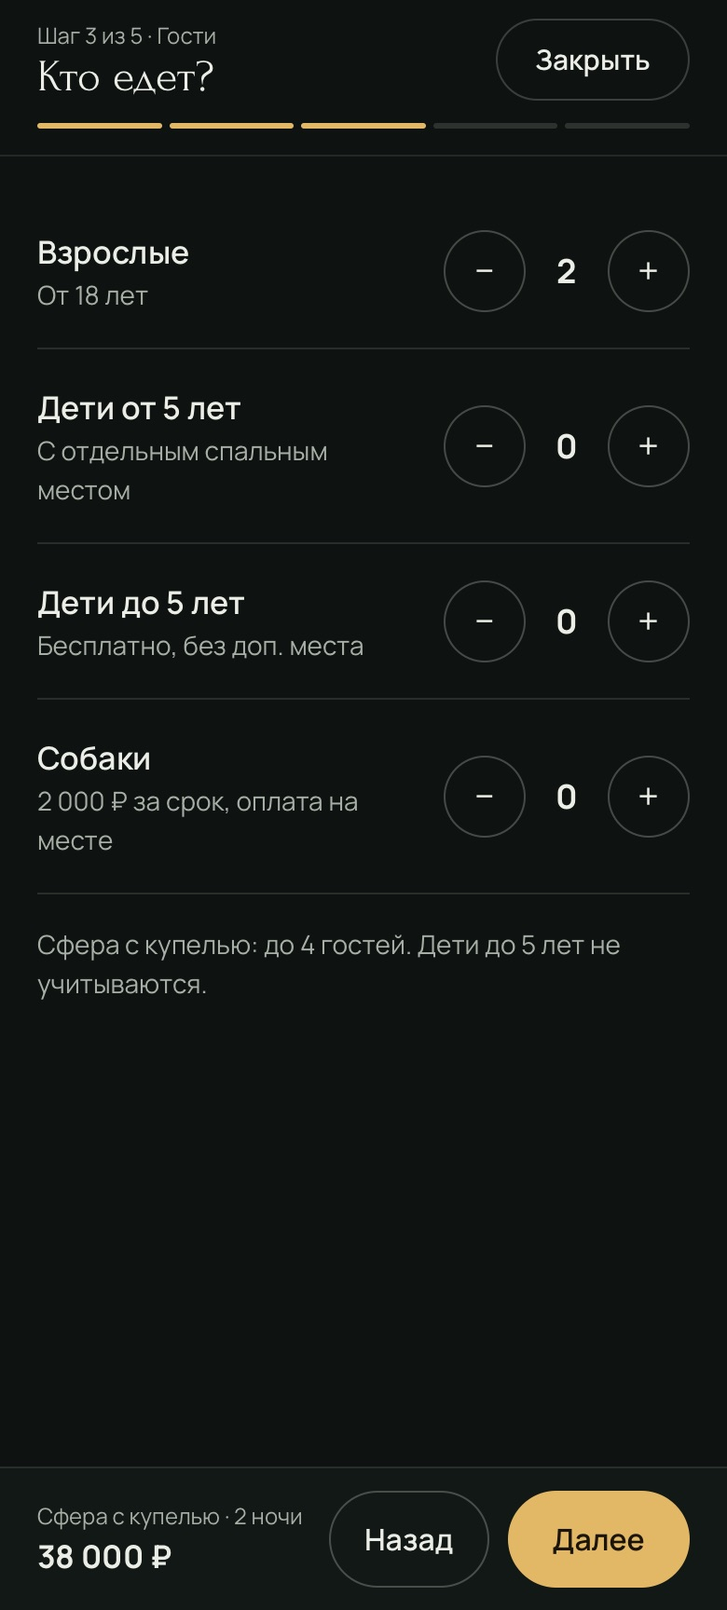
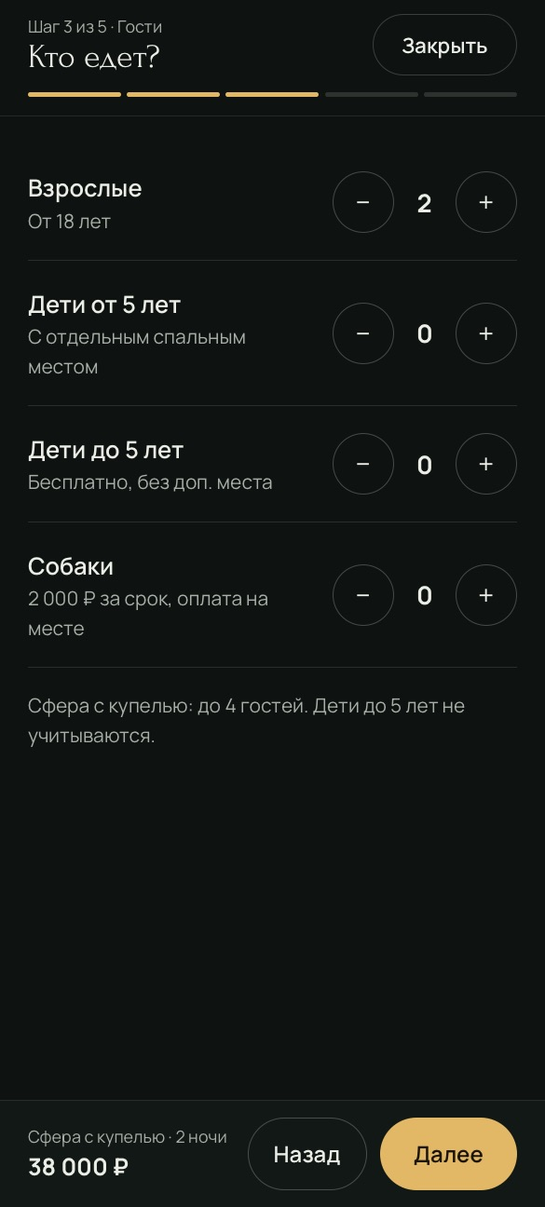
Память на телефоне: лёгкие версии картинок через srcset, обрезка снимков старого сайта, content-visibility для слайдов
- экраны прототипа в трёх размерах (640 / 1280 / 1920), телефонные в двух (390 / 585)
- снимки старого сайта обрезаны до видимой области рамки (вместо 1440×12128 — 1200×1000)
- слайды вне экрана не рендерятся и не держат память
- трафик презентации на телефоне: 2,4 МБ вместо 9,8 МБ

diff --git a/index.html b/index.html
@@ -12,7 +12,7 @@
 <link rel="preconnect" href="https://fonts.googleapis.com">
 <link rel="preconnect" href="https://fonts.gstatic.com" crossorigin>
 <link rel="stylesheet" href="https://fonts.googleapis.com/css2?family=Forum&family=Manrope:wght@400;500;600;700&display=swap">
-<link rel="stylesheet" href="assets/css/deck.css?v=10">
+<link rel="stylesheet" href="assets/css/deck.css?v=11">
 </head>
 <body>
 
@@ -22,7 +22,7 @@
 
     <!-- 1 -->
     <section class="slide slide--cover" data-label="Обложка" data-notes="Редизайн сайта бронирования. Сравниваем текущий сайт и новый прототип, затем — преимущества и открытые вопросы.">
-      <img src="assets/img/hero.jpg" alt="" class="cover__img">
+      <img src="assets/img/hero-s.jpg" srcset="assets/img/hero-s.jpg 900w, assets/img/hero.jpg 1680w" sizes="100vw" alt="" class="cover__img">
       <div class="cover__shade"></div>
       <div class="cover__in">
         <div class="eyebrow-xl eyebrow-xl--acc">Mystic Hills · ноябрь 2026</div>
@@ -39,7 +39,7 @@
       <div class="col col--40">
         <div class="eyebrow-xl">Текущий сайт</div>
         <h2 class="t2 t2--lg">Что мешает гостю дойти до оплаты</h2>
-        <div class="frame frame--fixed"><img src="assets/img/old/old-prozhivanie.jpg" alt="Текущий каталог" class="shot" style="height:100%;object-position:0 6%"></div>
+        <div class="frame frame--fixed"><img src="assets/img/old/crop-0-s.jpg" srcset="assets/img/old/crop-0-s.jpg 600w, assets/img/old/crop-0.jpg 1200w" sizes="(max-width:1023px) 45vw, 620px" alt="Текущий каталог" class="shot" style="height:100%" loading="lazy" decoding="async"></div>
       </div>
       <ol class="nlist nlist--top">
         <li><span class="num">01</span><span>Бронирование вынесено на отдельную страницу с пустым виджетом Bnovo</span></li>
@@ -56,13 +56,13 @@
       <div class="two">
         <div class="col">
           <span class="pill pill--was">Было</span>
-          <div class="frame"><div class="frame__bar"><i></i><i></i><i></i></div><img src="assets/img/old/old-index.jpg" alt="Текущая главная" class="shot"></div>
+          <div class="frame"><div class="frame__bar"><i></i><i></i><i></i></div><img src="assets/img/old/crop-1-s.jpg" srcset="assets/img/old/crop-1-s.jpg 600w, assets/img/old/crop-1.jpg 1200w" sizes="(max-width:1023px) 45vw, 620px" alt="Текущая главная" class="shot" loading="lazy" decoding="async"></div>
         </div>
         <div class="col">
           <span class="pill pill--now">Стало</span>
           <div class="rel">
-            <div class="frame"><div class="frame__bar"><i></i><i></i><i></i></div><img class="shot-live web" src="assets/img/screens/home-w.jpg" alt="Новая главная" data-frame="demo.html" loading="lazy"></div>
-            <div class="phone phone--float"><img class="shot-live" src="assets/img/screens/home-p.jpg" alt="Новая главная, телефон" data-frame="demo.html" loading="lazy"></div>
+            <div class="frame"><div class="frame__bar"><i></i><i></i><i></i></div><img class="shot-live web" src="assets/img/screens/home-w-s.jpg" srcset="assets/img/screens/home-w-xs.jpg 640w, assets/img/screens/home-w-s.jpg 1280w, assets/img/screens/home-w.jpg 1920w" sizes="(max-width:1023px) 45vw, 620px" alt="Новая главная" data-frame="demo.html" loading="lazy" decoding="async"></div>
+            <div class="phone phone--float"><img class="shot-live" src="assets/img/screens/home-p-s.jpg" srcset="assets/img/screens/home-p-s.jpg 390w, assets/img/screens/home-p.jpg 585w" sizes="(max-width:1023px) 20vw, 330px" alt="Новая главная, телефон" data-frame="demo.html" loading="lazy" decoding="async"></div>
           </div>
         </div>
       </div>
@@ -74,12 +74,12 @@
       <div class="two">
         <div class="col">
           <span class="pill pill--was">Было</span>
-          <div class="frame frame--560"><img src="assets/img/old/old-index.jpg" alt="Текущий поиск" class="shot" style="height:100%;object-position:0 10%"></div>
+          <div class="frame frame--560"><img src="assets/img/old/crop-2-s.jpg" srcset="assets/img/old/crop-2-s.jpg 600w, assets/img/old/crop-2.jpg 1200w" sizes="(max-width:1023px) 45vw, 620px" alt="Текущий поиск" class="shot" style="height:100%" loading="lazy" decoding="async"></div>
           <p class="note">Четыре поля и кнопка «Показать наличие». Даты по умолчанию — ближайшая ночь, гостей — один.</p>
         </div>
         <div class="col">
           <span class="pill pill--now">Стало</span>
-          <div class="frame frame--560"><img class="shot-live web web--900" src="assets/img/screens/home-w900.jpg" alt="Новый поиск" data-frame="demo.html" loading="lazy"></div>
+          <div class="frame frame--560"><img class="shot-live web web--900" src="assets/img/screens/home-w900-s.jpg" srcset="assets/img/screens/home-w900-xs.jpg 640w, assets/img/screens/home-w900-s.jpg 1280w, assets/img/screens/home-w900.jpg 1920w" sizes="(max-width:1023px) 45vw, 620px" alt="Новый поиск" data-frame="demo.html" loading="lazy" decoding="async"></div>
           <p class="note">Панель запоминает выбор: после дат карточки домиков показывают цену за весь период и занятость.</p>
         </div>
       </div>
@@ -91,13 +91,13 @@
       <div class="two">
         <div class="col">
           <span class="pill pill--was">Было</span>
-          <div class="frame"><div class="frame__bar"><i></i><i></i><i></i></div><img src="assets/img/old/old-prozhivanie.jpg" alt="Текущий каталог" class="shot" style="object-position:0 4%"></div>
+          <div class="frame"><div class="frame__bar"><i></i><i></i><i></i></div><img src="assets/img/old/crop-3-s.jpg" srcset="assets/img/old/crop-3-s.jpg 600w, assets/img/old/crop-3.jpg 1200w" sizes="(max-width:1023px) 45vw, 620px" alt="Текущий каталог" class="shot" loading="lazy" decoding="async"></div>
         </div>
         <div class="col">
           <span class="pill pill--now">Стало</span>
           <div class="rel">
-            <div class="frame"><div class="frame__bar"><i></i><i></i><i></i></div><img class="shot-live web" src="assets/img/screens/scroll-houses-w.jpg" alt="Новый каталог" data-frame="demo.html?scroll=houses" loading="lazy"></div>
-            <div class="phone phone--float"><img class="shot-live" src="assets/img/screens/scroll-houses-p.jpg" alt="Новый каталог, телефон" data-frame="demo.html?scroll=houses" loading="lazy"></div>
+            <div class="frame"><div class="frame__bar"><i></i><i></i><i></i></div><img class="shot-live web" src="assets/img/screens/scroll-houses-w-s.jpg" srcset="assets/img/screens/scroll-houses-w-xs.jpg 640w, assets/img/screens/scroll-houses-w-s.jpg 1280w, assets/img/screens/scroll-houses-w.jpg 1920w" sizes="(max-width:1023px) 45vw, 620px" alt="Новый каталог" data-frame="demo.html?scroll=houses" loading="lazy" decoding="async"></div>
+            <div class="phone phone--float"><img class="shot-live" src="assets/img/screens/scroll-houses-p-s.jpg" srcset="assets/img/screens/scroll-houses-p-s.jpg 390w, assets/img/screens/scroll-houses-p.jpg 585w" sizes="(max-width:1023px) 20vw, 330px" alt="Новый каталог, телефон" data-frame="demo.html?scroll=houses" loading="lazy" decoding="async"></div>
           </div>
         </div>
       </div>
@@ -118,8 +118,8 @@
           <li>Для двоих / романтика</li>
         </ul>
       </div>
-      <div class="phone-wrap phone-wrap--pt"><div class="phone"><img class="shot-live" src="assets/img/screens/scroll-houses-p.jpg" alt="Быстрые фильтры" data-frame="demo.html?scroll=houses" loading="lazy"></div></div>
-      <div class="phone-wrap phone-wrap--pt"><div class="phone"><img class="shot-live" src="assets/img/screens/view-filters-p.jpg" alt="Панель фильтров" data-frame="demo.html?view=filters" loading="lazy"></div></div>
+      <div class="phone-wrap phone-wrap--pt"><div class="phone"><img class="shot-live" src="assets/img/screens/scroll-houses-p-s.jpg" srcset="assets/img/screens/scroll-houses-p-s.jpg 390w, assets/img/screens/scroll-houses-p.jpg 585w" sizes="(max-width:1023px) 20vw, 330px" alt="Быстрые фильтры" data-frame="demo.html?scroll=houses" loading="lazy" decoding="async"></div></div>
+      <div class="phone-wrap phone-wrap--pt"><div class="phone"><img class="shot-live" src="assets/img/screens/view-filters-p-s.jpg" srcset="assets/img/screens/view-filters-p-s.jpg 390w, assets/img/screens/view-filters-p.jpg 585w" sizes="(max-width:1023px) 20vw, 330px" alt="Панель фильтров" data-frame="demo.html?view=filters" loading="lazy" decoding="async"></div></div>
     </section>
 
     <!-- 7 -->
@@ -128,15 +128,15 @@
       <div class="grid-1-2p">
         <div class="col">
           <span class="pill pill--was">Было</span>
-          <div class="frame"><img src="assets/img/old/old-sfera.jpg" alt="Текущая страница Сферы" class="shot" style="height:100%"></div>
+          <div class="frame"><img src="assets/img/old/crop-4-s.jpg" srcset="assets/img/old/crop-4-s.jpg 600w, assets/img/old/crop-4.jpg 1200w" sizes="(max-width:1023px) 45vw, 620px" alt="Текущая страница Сферы" class="shot" style="height:100%" loading="lazy" decoding="async"></div>
         </div>
         <div class="col">
           <span class="pill pill--now">Стало</span>
-          <div class="phone-wrap"><div class="phone"><img class="shot-live" src="assets/img/screens/view-house-house-sfera-p.jpg" alt="Сфера" data-frame="demo.html?view=house&amp;house=sfera" loading="lazy"></div></div>
+          <div class="phone-wrap"><div class="phone"><img class="shot-live" src="assets/img/screens/view-house-house-sfera-p-s.jpg" srcset="assets/img/screens/view-house-house-sfera-p-s.jpg 390w, assets/img/screens/view-house-house-sfera-p.jpg 585w" sizes="(max-width:1023px) 20vw, 330px" alt="Сфера" data-frame="demo.html?view=house&amp;house=sfera" loading="lazy" decoding="async"></div></div>
         </div>
         <div class="col">
           <span class="pill pill--ghost"></span>
-          <div class="phone-wrap"><div class="phone"><img class="shot-live" src="assets/img/screens/view-house-house-lodzh-dates-1-p.jpg" alt="Лодж с датами" data-frame="demo.html?view=house&amp;house=lodzh&amp;dates=1" loading="lazy"></div></div>
+          <div class="phone-wrap"><div class="phone"><img class="shot-live" src="assets/img/screens/view-house-house-lodzh-dates-1-p-s.jpg" srcset="assets/img/screens/view-house-house-lodzh-dates-1-p-s.jpg 390w, assets/img/screens/view-house-house-lodzh-dates-1-p.jpg 585w" sizes="(max-width:1023px) 20vw, 330px" alt="Лодж с датами" data-frame="demo.html?view=house&amp;house=lodzh&amp;dates=1" loading="lazy" decoding="async"></div></div>
         </div>
       </div>
     </section>
@@ -154,15 +154,15 @@
           <li>Данные о занятости — из Bnovo после интеграции</li>
         </ul>
       </div>
-      <div class="phone-wrap phone-wrap--pt"><div class="phone"><img class="shot-live" src="assets/img/screens/view-booking-step-0-house-sfera-kupel-p.jpg" alt="Шаг 1 — даты" data-frame="demo.html?view=booking&amp;step=0&amp;house=sfera-kupel" loading="lazy"></div></div>
-      <div class="phone-wrap phone-wrap--pt"><div class="phone"><img class="shot-live" src="assets/img/screens/view-booking-step-1-dates-1-p.jpg" alt="Шаг 2 — домик" data-frame="demo.html?view=booking&amp;step=1&amp;dates=1" loading="lazy"></div></div>
+      <div class="phone-wrap phone-wrap--pt"><div class="phone"><img class="shot-live" src="assets/img/screens/view-booking-step-0-house-sfera-kupel-p-s.jpg" srcset="assets/img/screens/view-booking-step-0-house-sfera-kupel-p-s.jpg 390w, assets/img/screens/view-booking-step-0-house-sfera-kupel-p.jpg 585w" sizes="(max-width:1023px) 20vw, 330px" alt="Шаг 1 — даты" data-frame="demo.html?view=booking&amp;step=0&amp;house=sfera-kupel" loading="lazy" decoding="async"></div></div>
+      <div class="phone-wrap phone-wrap--pt"><div class="phone"><img class="shot-live" src="assets/img/screens/view-booking-step-1-dates-1-p-s.jpg" srcset="assets/img/screens/view-booking-step-1-dates-1-p-s.jpg 390w, assets/img/screens/view-booking-step-1-dates-1-p.jpg 585w" sizes="(max-width:1023px) 20vw, 330px" alt="Шаг 2 — домик" data-frame="demo.html?view=booking&amp;step=1&amp;dates=1" loading="lazy" decoding="async"></div></div>
     </section>
 
     <!-- 9 -->
     <section class="slide slide--pad slide--grid1-640" data-label="Бронирование: было" data-notes="Сейчас страница бронирования — заголовок, текст о тарифе и пустой виджет. Выбор домика, гостей и оплата происходят уже на стороне Bnovo.">
       <div class="col">
         <span class="pill pill--was">Было</span>
-        <div class="frame frame--800"><div class="frame__bar"><i></i><i></i><i></i></div><img src="assets/img/old/old-booking.jpg" alt="Текущая страница бронирования" class="shot shot--764"></div>
+        <div class="frame frame--800"><div class="frame__bar"><i></i><i></i><i></i></div><img src="assets/img/old/crop-5-s.jpg" srcset="assets/img/old/crop-5-s.jpg 600w, assets/img/old/crop-5.jpg 1200w" sizes="(max-width:1023px) 45vw, 620px" alt="Текущая страница бронирования" class="shot shot--764" loading="lazy" decoding="async"></div>
       </div>
       <div class="col col--36" style="padding-top:58px">
         <h2 class="t2">Бронирование: как сейчас</h2>
@@ -182,10 +182,10 @@
         <p class="lead lead--620">Даты · Домик · Гости · Дополнения · Оплата. Итоговая сумма пересчитывается на каждом шаге</p>
       </div>
       <div class="phones4">
-        <div class="col col--16"><div class="cap">Шаг 3 · Гости</div><div class="phone-wrap"><div class="phone"><img class="shot-live" src="assets/img/screens/view-booking-step-2-house-sfera-kupel-dates-1-p.jpg" alt="Шаг 3 — гости" data-frame="demo.html?view=booking&amp;step=2&amp;house=sfera-kupel&amp;dates=1" loading="lazy"></div></div></div>
-        <div class="col col--16"><div class="cap">Шаг 4 · Дополнения</div><div class="phone-wrap"><div class="phone"><img class="shot-live" src="assets/img/screens/view-booking-step-3-house-sfera-kupel-dates-1-extras-1-p.jpg" alt="Шаг 4 — дополнения" data-frame="demo.html?view=booking&amp;step=3&amp;house=sfera-kupel&amp;dates=1&amp;extras=1" loading="lazy"></div></div></div>
-        <div class="col col--16"><div class="cap">Шаг 5 · Оплата</div><div class="phone-wrap"><div class="phone"><img class="shot-live" src="assets/img/screens/view-booking-step-4-house-sfera-kupel-dates-1-extras-1-name-1-p.jpg" alt="Шаг 5 — оплата" data-frame="demo.html?view=booking&amp;step=4&amp;house=sfera-kupel&amp;dates=1&amp;extras=1&amp;name=1" loading="lazy"></div></div></div>
-        <div class="col col--16"><div class="cap">Подтверждение</div><div class="phone-wrap"><div class="phone"><img class="shot-live" src="assets/img/screens/view-booking-step-5-house-sfera-kupel-dates-1-extras-1-name-1-no-1-p.jpg" alt="Подтверждение" data-frame="demo.html?view=booking&amp;step=5&amp;house=sfera-kupel&amp;dates=1&amp;extras=1&amp;name=1&amp;no=1" loading="lazy"></div></div></div>
+        <div class="col col--16"><div class="cap">Шаг 3 · Гости</div><div class="phone-wrap"><div class="phone"><img class="shot-live" src="assets/img/screens/view-booking-step-2-house-sfera-kupel-dates-1-p-s.jpg" srcset="assets/img/screens/view-booking-step-2-house-sfera-kupel-dates-1-p-s.jpg 390w, assets/img/screens/view-booking-step-2-house-sfera-kupel-dates-1-p.jpg 585w" sizes="(max-width:1023px) 20vw, 330px" alt="Шаг 3 — гости" data-frame="demo.html?view=booking&amp;step=2&amp;house=sfera-kupel&amp;dates=1" loading="lazy" decoding="async"></div></div></div>
+        <div class="col col--16"><div class="cap">Шаг 4 · Дополнения</div><div class="phone-wrap"><div class="phone"><img class="shot-live" src="assets/img/screens/view-booking-step-3-house-sfera-kupel-dates-1-extras-1-p-s.jpg" srcset="assets/img/screens/view-booking-step-3-house-sfera-kupel-dates-1-extras-1-p-s.jpg 390w, assets/img/screens/view-booking-step-3-house-sfera-kupel-dates-1-extras-1-p.jpg 585w" sizes="(max-width:1023px) 20vw, 330px" alt="Шаг 4 — дополнения" data-frame="demo.html?view=booking&amp;step=3&amp;house=sfera-kupel&amp;dates=1&amp;extras=1" loading="lazy" decoding="async"></div></div></div>
+        <div class="col col--16"><div class="cap">Шаг 5 · Оплата</div><div class="phone-wrap"><div class="phone"><img class="shot-live" src="assets/img/screens/view-booking-step-4-house-sfera-kupel-dates-1-extras-1-name-1-p-s.jpg" srcset="assets/img/screens/view-booking-step-4-house-sfera-kupel-dates-1-extras-1-name-1-p-s.jpg 390w, assets/img/screens/view-booking-step-4-house-sfera-kupel-dates-1-extras-1-name-1-p.jpg 585w" sizes="(max-width:1023px) 20vw, 330px" alt="Шаг 5 — оплата" data-frame="demo.html?view=booking&amp;step=4&amp;house=sfera-kupel&amp;dates=1&amp;extras=1&amp;name=1" loading="lazy" decoding="async"></div></div></div>
+        <div class="col col--16"><div class="cap">Подтверждение</div><div class="phone-wrap"><div class="phone"><img class="shot-live" src="assets/img/screens/view-booking-step-5-house-sfera-kupel-dates-1-extras-1-name-1-no-1-p-s.jpg" srcset="assets/img/screens/view-booking-step-5-house-sfera-kupel-dates-1-extras-1-name-1-no-1-p-s.jpg 390w, assets/img/screens/view-booking-step-5-house-sfera-kupel-dates-1-extras-1-name-1-no-1-p.jpg 585w" sizes="(max-width:1023px) 20vw, 330px" alt="Подтверждение" data-frame="demo.html?view=booking&amp;step=5&amp;house=sfera-kupel&amp;dates=1&amp;extras=1&amp;name=1&amp;no=1" loading="lazy" decoding="async"></div></div></div>
       </div>
     </section>
 
@@ -205,15 +205,15 @@
         </div>
         <p class="note">Цены — с текущего сайта, уточняются перед запуском.</p>
       </div>
-      <div class="phone-wrap phone-wrap--pt"><div class="phone"><img class="shot-live" src="assets/img/screens/view-booking-step-3-house-lodzh-dates-1-extras-1-p.jpg" alt="Дополнения" data-frame="demo.html?view=booking&amp;step=3&amp;house=lodzh&amp;dates=1&amp;extras=1" loading="lazy"></div></div>
+      <div class="phone-wrap phone-wrap--pt"><div class="phone"><img class="shot-live" src="assets/img/screens/view-booking-step-3-house-lodzh-dates-1-extras-1-p-s.jpg" srcset="assets/img/screens/view-booking-step-3-house-lodzh-dates-1-extras-1-p-s.jpg 390w, assets/img/screens/view-booking-step-3-house-lodzh-dates-1-extras-1-p.jpg 585w" sizes="(max-width:1023px) 20vw, 330px" alt="Дополнения" data-frame="demo.html?view=booking&amp;step=3&amp;house=lodzh&amp;dates=1&amp;extras=1" loading="lazy" decoding="async"></div></div>
     </section>
 
     <!-- 12 -->
     <section class="slide slide--pad" data-label="Баня" data-notes="Баня на старом сайте — страница правил без фото и цены. Теперь это раздел главной: фото, время, стоимость и кнопка в бронь.">
       <div class="head"><h2 class="t2">Баня на озере</h2><p class="lead">Фото, часы работы и цена на одном экране; правила — отдельной ссылкой</p></div>
       <div class="two">
-        <div class="col"><span class="pill pill--was">Было</span><div class="frame"><div class="frame__bar"><i></i><i></i><i></i></div><img src="assets/img/old/old-banya.jpg" alt="Текущая страница бани" class="shot"></div></div>
-        <div class="col"><span class="pill pill--now">Стало</span><div class="frame"><div class="frame__bar"><i></i><i></i><i></i></div><img class="shot-live web" src="assets/img/screens/scroll-banya-w.jpg" alt="Баня" data-frame="demo.html?scroll=banya" loading="lazy"></div></div>
+        <div class="col"><span class="pill pill--was">Было</span><div class="frame"><div class="frame__bar"><i></i><i></i><i></i></div><img src="assets/img/old/crop-6-s.jpg" srcset="assets/img/old/crop-6-s.jpg 600w, assets/img/old/crop-6.jpg 1200w" sizes="(max-width:1023px) 45vw, 620px" alt="Текущая страница бани" class="shot" loading="lazy" decoding="async"></div></div>
+        <div class="col"><span class="pill pill--now">Стало</span><div class="frame"><div class="frame__bar"><i></i><i></i><i></i></div><img class="shot-live web" src="assets/img/screens/scroll-banya-w-s.jpg" srcset="assets/img/screens/scroll-banya-w-xs.jpg 640w, assets/img/screens/scroll-banya-w-s.jpg 1280w, assets/img/screens/scroll-banya-w.jpg 1920w" sizes="(max-width:1023px) 45vw, 620px" alt="Баня" data-frame="demo.html?scroll=banya" loading="lazy" decoding="async"></div></div>
       </div>
     </section>
 
@@ -221,12 +221,12 @@
     <section class="slide slide--pad" data-label="Ресторан" data-notes="Ресторан: вместо длинной страницы с галереей — компактный блок с режимом, завтраками, доставкой в домик и ссылкой на меню.">
       <div class="head"><h2 class="t2">Ресторан</h2><p class="lead">Режим работы, завтраки и доставка в домик — цифрами, а не абзацами</p></div>
       <div class="two">
-        <div class="col"><span class="pill pill--was">Было</span><div class="frame"><div class="frame__bar"><i></i><i></i><i></i></div><img src="assets/img/old/old-cafe.jpg" alt="Текущая страница ресторана" class="shot" style="object-position:0 12%"></div></div>
+        <div class="col"><span class="pill pill--was">Было</span><div class="frame"><div class="frame__bar"><i></i><i></i><i></i></div><img src="assets/img/old/crop-7-s.jpg" srcset="assets/img/old/crop-7-s.jpg 600w, assets/img/old/crop-7.jpg 1200w" sizes="(max-width:1023px) 45vw, 620px" alt="Текущая страница ресторана" class="shot" loading="lazy" decoding="async"></div></div>
         <div class="col">
           <span class="pill pill--now">Стало</span>
           <div class="rel">
-            <div class="frame"><div class="frame__bar"><i></i><i></i><i></i></div><img class="shot-live web" src="assets/img/screens/scroll-cafe-w.jpg" alt="Ресторан" data-frame="demo.html?scroll=cafe" loading="lazy"></div>
-            <div class="phone phone--float"><img class="shot-live" src="assets/img/screens/scroll-cafe-p.jpg" alt="Ресторан, телефон" data-frame="demo.html?scroll=cafe" loading="lazy"></div>
+            <div class="frame"><div class="frame__bar"><i></i><i></i><i></i></div><img class="shot-live web" src="assets/img/screens/scroll-cafe-w-s.jpg" srcset="assets/img/screens/scroll-cafe-w-xs.jpg 640w, assets/img/screens/scroll-cafe-w-s.jpg 1280w, assets/img/screens/scroll-cafe-w.jpg 1920w" sizes="(max-width:1023px) 45vw, 620px" alt="Ресторан" data-frame="demo.html?scroll=cafe" loading="lazy" decoding="async"></div>
+            <div class="phone phone--float"><img class="shot-live" src="assets/img/screens/scroll-cafe-p-s.jpg" srcset="assets/img/screens/scroll-cafe-p-s.jpg 390w, assets/img/screens/scroll-cafe-p.jpg 585w" sizes="(max-width:1023px) 20vw, 330px" alt="Ресторан, телефон" data-frame="demo.html?scroll=cafe" loading="lazy" decoding="async"></div>
           </div>
         </div>
       </div>
@@ -236,8 +236,8 @@
     <section class="slide slide--pad" data-label="Контакты" data-notes="Блок «Как добраться» на старом сайте повторяется на каждой странице вместе с реквизитами. Теперь — один раздел с маршрутом, телефонами и мессенджерами.">
       <div class="head"><h2 class="t2">Контакты и как добраться</h2><p class="lead">Маршрут, телефоны и мессенджеры в одном блоке; реквизиты — в подвале</p></div>
       <div class="two">
-        <div class="col"><span class="pill pill--was">Было</span><div class="frame"><div class="frame__bar"><i></i><i></i><i></i></div><img src="assets/img/old/old-index.jpg" alt="Текущий блок контактов" class="shot" style="object-position:0 62%"></div></div>
-        <div class="col"><span class="pill pill--now">Стало</span><div class="frame"><div class="frame__bar"><i></i><i></i><i></i></div><img class="shot-live web" src="assets/img/screens/scroll-contacts-w.jpg" alt="Контакты" data-frame="demo.html?scroll=contacts" loading="lazy"></div></div>
+        <div class="col"><span class="pill pill--was">Было</span><div class="frame"><div class="frame__bar"><i></i><i></i><i></i></div><img src="assets/img/old/crop-8-s.jpg" srcset="assets/img/old/crop-8-s.jpg 600w, assets/img/old/crop-8.jpg 1200w" sizes="(max-width:1023px) 45vw, 620px" alt="Текущий блок контактов" class="shot" loading="lazy" decoding="async"></div></div>
+        <div class="col"><span class="pill pill--now">Стало</span><div class="frame"><div class="frame__bar"><i></i><i></i><i></i></div><img class="shot-live web" src="assets/img/screens/scroll-contacts-w-s.jpg" srcset="assets/img/screens/scroll-contacts-w-xs.jpg 640w, assets/img/screens/scroll-contacts-w-s.jpg 1280w, assets/img/screens/scroll-contacts-w.jpg 1920w" sizes="(max-width:1023px) 45vw, 620px" alt="Контакты" data-frame="demo.html?scroll=contacts" loading="lazy" decoding="async"></div></div>
       </div>
     </section>
 
@@ -245,10 +245,10 @@
     <section class="slide slide--pad" data-label="Мобильная версия" data-notes="Весь путь гостя проходится на телефоне: главная, каталог, домик, оплата. Кнопки не меньше 44 пикселей, итог брони всегда внизу экрана.">
       <div class="head"><h2 class="t2">Мобильная версия как основа</h2><p class="lead lead--700">Весь путь от главной до оплаты проходится одной рукой</p></div>
       <div class="phones4">
-        <div class="col col--16"><div class="cap">Главная</div><div class="phone-wrap"><div class="phone"><img class="shot-live" src="assets/img/screens/home-p.jpg" alt="Главная" data-frame="demo.html" loading="lazy"></div></div></div>
-        <div class="col col--16"><div class="cap">Меню</div><div class="phone-wrap"><div class="phone"><img class="shot-live" src="assets/img/screens/view-menu-p.jpg" alt="Меню" data-frame="demo.html?view=menu" loading="lazy"></div></div></div>
-        <div class="col col--16"><div class="cap">Домик</div><div class="phone-wrap"><div class="phone"><img class="shot-live" src="assets/img/screens/view-house-house-dzen-dates-1-p.jpg" alt="Домик" data-frame="demo.html?view=house&amp;house=dzen&amp;dates=1" loading="lazy"></div></div></div>
-        <div class="col col--16"><div class="cap">Оплата</div><div class="phone-wrap"><div class="phone"><img class="shot-live" src="assets/img/screens/view-booking-step-4-house-dzen-dates-1-name-1-p.jpg" alt="Оплата" data-frame="demo.html?view=booking&amp;step=4&amp;house=dzen&amp;dates=1&amp;name=1" loading="lazy"></div></div></div>
+        <div class="col col--16"><div class="cap">Главная</div><div class="phone-wrap"><div class="phone"><img class="shot-live" src="assets/img/screens/home-p-s.jpg" srcset="assets/img/screens/home-p-s.jpg 390w, assets/img/screens/home-p.jpg 585w" sizes="(max-width:1023px) 20vw, 330px" alt="Главная" data-frame="demo.html" loading="lazy" decoding="async"></div></div></div>
+        <div class="col col--16"><div class="cap">Меню</div><div class="phone-wrap"><div class="phone"><img class="shot-live" src="assets/img/screens/view-menu-p-s.jpg" srcset="assets/img/screens/view-menu-p-s.jpg 390w, assets/img/screens/view-menu-p.jpg 585w" sizes="(max-width:1023px) 20vw, 330px" alt="Меню" data-frame="demo.html?view=menu" loading="lazy" decoding="async"></div></div></div>
+        <div class="col col--16"><div class="cap">Домик</div><div class="phone-wrap"><div class="phone"><img class="shot-live" src="assets/img/screens/view-house-house-dzen-dates-1-p-s.jpg" srcset="assets/img/screens/view-house-house-dzen-dates-1-p-s.jpg 390w, assets/img/screens/view-house-house-dzen-dates-1-p.jpg 585w" sizes="(max-width:1023px) 20vw, 330px" alt="Домик" data-frame="demo.html?view=house&amp;house=dzen&amp;dates=1" loading="lazy" decoding="async"></div></div></div>
+        <div class="col col--16"><div class="cap">Оплата</div><div class="phone-wrap"><div class="phone"><img class="shot-live" src="assets/img/screens/view-booking-step-4-house-dzen-dates-1-name-1-p-s.jpg" srcset="assets/img/screens/view-booking-step-4-house-dzen-dates-1-name-1-p-s.jpg 390w, assets/img/screens/view-booking-step-4-house-dzen-dates-1-name-1-p.jpg 585w" sizes="(max-width:1023px) 20vw, 330px" alt="Оплата" data-frame="demo.html?view=booking&amp;step=4&amp;house=dzen&amp;dates=1&amp;name=1" loading="lazy" decoding="async"></div></div></div>
       </div>
     </section>
 
@@ -338,6 +338,6 @@
 </div>
 
 
-<script src="assets/js/deck.js?v=10"></script>
+<script src="assets/js/deck.js?v=11"></script>
 </body>
 </html>

diff --git a/assets/css/deck.css b/assets/css/deck.css
@@ -15,7 +15,7 @@ button{font-family:inherit;cursor:pointer}
 .slide img{-webkit-user-drag:none;user-drag:none}
 .doc{--s:1;display:flex;flex-direction:column;align-items:center;gap:24px;padding:28px 0 120px}
 @media (max-width:720px){.doc{gap:12px;padding:12px 0 100px}}
-.page{position:relative;flex:none;width:calc(1920px * var(--s));height:calc(1080px * var(--s));border-radius:6px;overflow:hidden;box-shadow:0 0 0 1px rgba(235,238,230,0.06),0 24px 80px rgba(0,0,0,0.5)}
+.page{content-visibility:auto;position:relative;flex:none;width:calc(1920px * var(--s));height:calc(1080px * var(--s));border-radius:6px;overflow:hidden;box-shadow:0 0 0 1px rgba(235,238,230,0.06),0 24px 80px rgba(0,0,0,0.5)}
 .page .slide{position:absolute;top:0;left:0;transform:scale(var(--s));transform-origin:top left}
 .slide{width:1920px;height:1080px;background:var(--slide);color:var(--fg);overflow:hidden}
 .slide--pad{padding:90px 110px 80px;display:flex;flex-direction:column;gap:36px}

diff --git a/README.md b/README.md
@@ -19,7 +19,9 @@
 
 В слайдах лежат скриншоты экранов прототипа (`assets/img/screens/`), чтобы страница была лёгкой и не падала на телефоне. На компьютере кнопка «Попробовать прототип» подменяет скриншот живым прототипом. На телефоне и планшете слайды только для просмотра, без панели управления; переход к демо — блоком после последнего слайда.
 
-Пересобрать скриншоты после правок прототипа: запустить локальный сервер и скрипт на Playwright (WebKit), который снимает каждый экран из `data-frame` в нужном размере.
+У каждой картинки в слайдах два-три размера (`srcset`): телефон получает лёгкие версии (`-s`, `-xs`), компьютер — полные. Снимки старого сайта обрезаны до видимой области рамки (`assets/img/old/crop-*.jpg`). Слайды вне экрана не держатся в памяти (`content-visibility:auto`).
+
+Пересобрать скриншоты после правок прототипа: запустить локальный сервер и скрипт на Playwright (WebKit), который снимает каждый экран из `data-frame` в двух размерах.
 | `O` | Обзор всех слайдов |
 | `N` | Заметки докладчика |
 | `F` | На весь экран |
